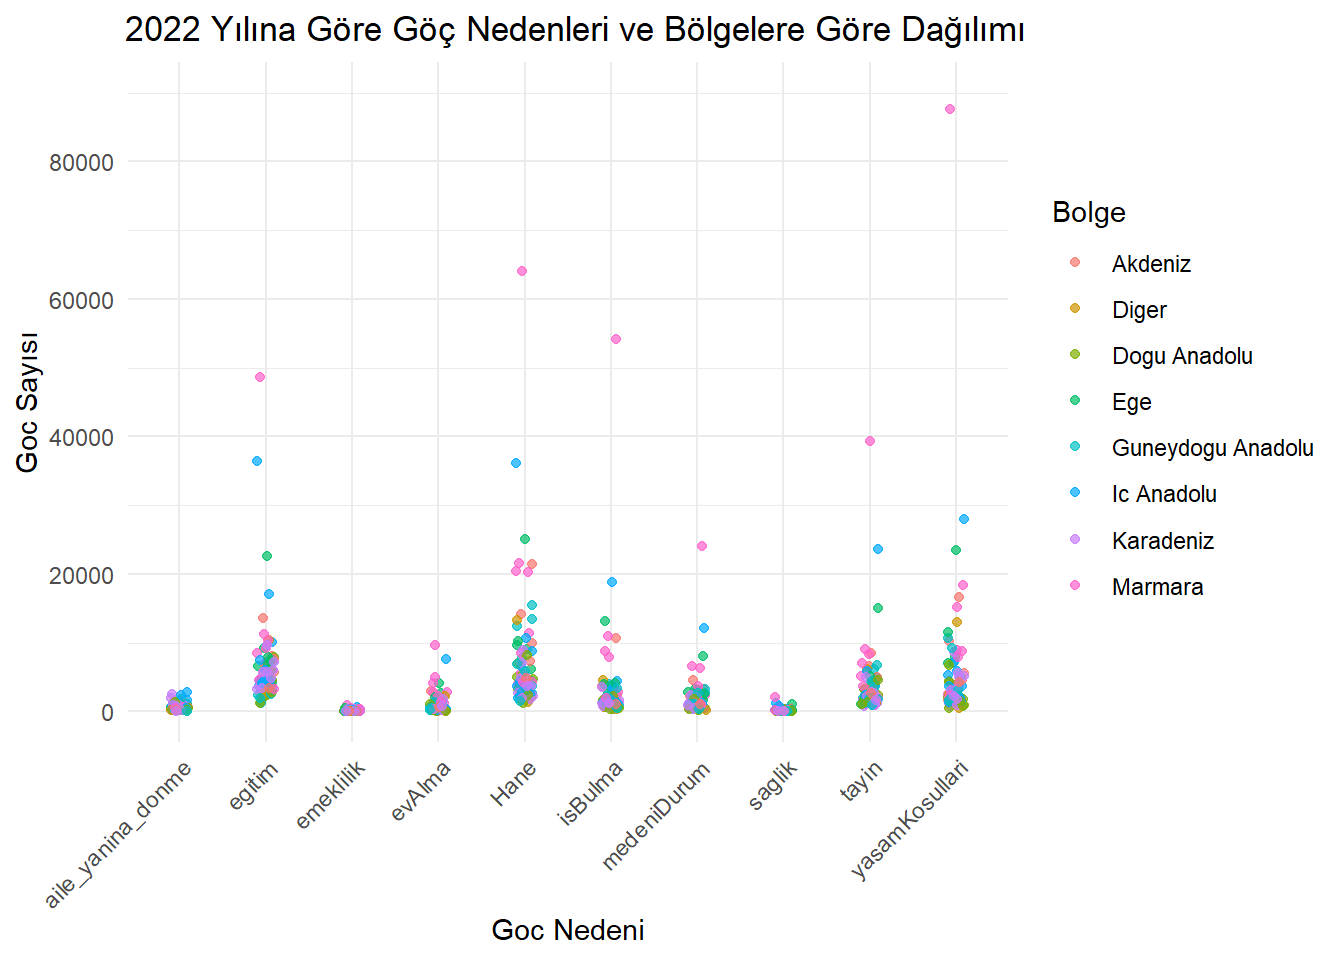
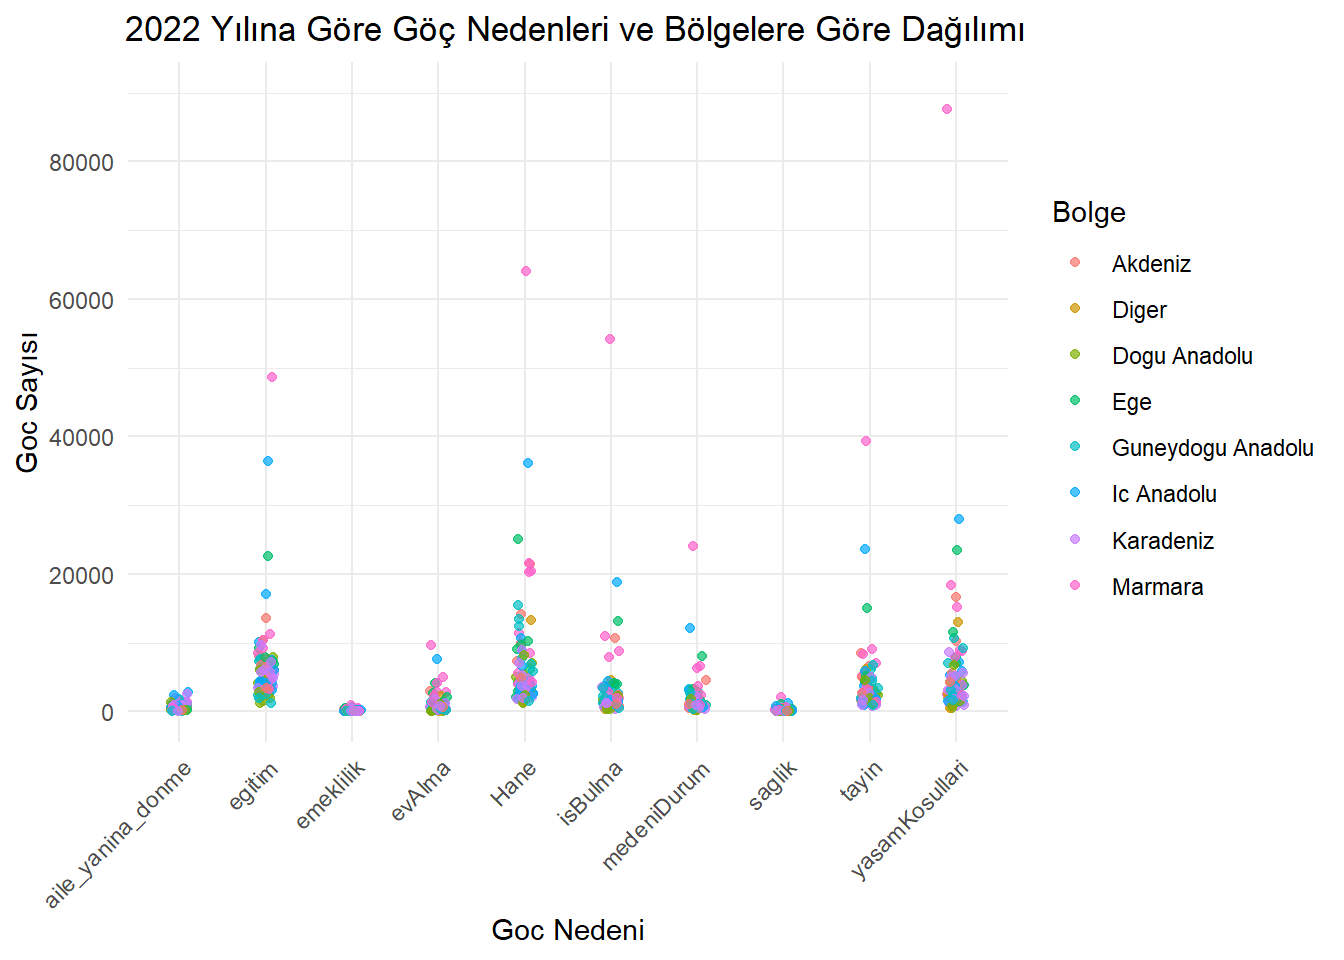
boxplot düzeltme
boxplot düzenlendi

diff --git a/docs/proje.html b/docs/proje.html
@@ -529,30 +529,29 @@ The following object is masked from 'package:dplyr':
 </div>
 </div>
 <div class="cell">
-<div class="sourceCode cell-code" id="cb40"><pre class="sourceCode r code-with-copy"><code class="sourceCode r"><span id="cb40-1"><a href="#cb40-1" aria-hidden="true" tabindex="-1"></a><span class="do">##boxplot data görsel</span></span>
-<span id="cb40-2"><a href="#cb40-2" aria-hidden="true" tabindex="-1"></a>new_tidy_data <span class="ot">&lt;-</span> new_tidy_data <span class="sc">%&gt;%</span></span>
-<span id="cb40-3"><a href="#cb40-3" aria-hidden="true" tabindex="-1"></a>  <span class="fu">mutate</span>(<span class="at">bolge =</span> <span class="fu">case_when</span>(</span>
-<span id="cb40-4"><a href="#cb40-4" aria-hidden="true" tabindex="-1"></a>    il <span class="sc">%in%</span> <span class="fu">c</span>(<span class="st">"Istanbul"</span>, <span class="st">"Bursa"</span>, <span class="st">"Kocaeli"</span>, <span class="st">"Tekirdag"</span>,<span class="st">"Balikesir"</span>,<span class="st">"Canakkale"</span>,<span class="st">"Bilecik"</span>,<span class="st">"Edirne"</span>,<span class="st">"Kirklareli"</span>,<span class="st">"Sakarya"</span>,<span class="st">"Yalova"</span>) <span class="sc">~</span> <span class="st">"Marmara"</span>,</span>
-<span id="cb40-5"><a href="#cb40-5" aria-hidden="true" tabindex="-1"></a>    il <span class="sc">%in%</span> <span class="fu">c</span>(<span class="st">"Izmir"</span>, <span class="st">"Aydin"</span>, <span class="st">"Manisa"</span>,<span class="st">"Afyonkarahisar"</span>,<span class="st">"Denizli"</span>,<span class="st">"Kutahya"</span>,<span class="st">"Manisa"</span>,<span class="st">"Mugla"</span>,<span class="st">"Usak"</span>) <span class="sc">~</span> <span class="st">"Ege"</span>,</span>
-<span id="cb40-6"><a href="#cb40-6" aria-hidden="true" tabindex="-1"></a>    il <span class="sc">%in%</span> <span class="fu">c</span>(<span class="st">"Ankara"</span>, <span class="st">"Konya"</span>, <span class="st">"Eskisehir"</span>,<span class="st">"Cankiri"</span>,<span class="st">"Corum"</span>,<span class="st">"Kayseri"</span>,<span class="st">"Kirsehir</span></span>
-<span id="cb40-7"><a href="#cb40-7" aria-hidden="true" tabindex="-1"></a><span class="st">"</span>,<span class="st">"Konya"</span>,<span class="st">"Nevsehir"</span>,<span class="st">"Nigde"</span>,<span class="st">"Sivas"</span>,<span class="st">"Yozgat"</span>,<span class="st">"Aksaray"</span>,<span class="st">"Karaman"</span>,<span class="st">"Kirikkale"</span>) <span class="sc">~</span> <span class="st">"Ic Anadolu"</span>,</span>
-<span id="cb40-8"><a href="#cb40-8" aria-hidden="true" tabindex="-1"></a>    il <span class="sc">%in%</span> <span class="fu">c</span>(<span class="st">"Artvin"</span>, <span class="st">"Giresun"</span>, <span class="st">"Ordu"</span>,<span class="st">"Rize"</span>,<span class="st">"Sinop"</span>,<span class="st">"Tokat"</span>,<span class="st">"Trabzon"</span>,<span class="st">"Zonguldak"</span>,<span class="st">"Amasya"</span>,<span class="st">"Bolu"</span>,<span class="st">"Gumushane"</span>,<span class="st">"Kastamonu"</span>,<span class="st">"Samsun"</span>,<span class="st">"Sinop"</span>,<span class="st">"Bayburt</span></span>
-<span id="cb40-9"><a href="#cb40-9" aria-hidden="true" tabindex="-1"></a><span class="st">"</span>,<span class="st">"Bartin"</span>,<span class="st">"Karabuk"</span>,<span class="st">"Duzce"</span>) <span class="sc">~</span> <span class="st">"Karadeniz"</span>,</span>
-<span id="cb40-10"><a href="#cb40-10" aria-hidden="true" tabindex="-1"></a>    il <span class="sc">%in%</span> <span class="fu">c</span>(<span class="st">"Adana"</span>, <span class="st">"Antalya"</span>,<span class="st">"Burdur"</span>,<span class="st">"Hatay"</span>,<span class="st">"Isparta"</span>,<span class="st">"Kahramanmaras"</span>,<span class="st">"Osmaniye"</span>) <span class="sc">~</span> <span class="st">"Akdeniz"</span>,</span>
-<span id="cb40-11"><a href="#cb40-11" aria-hidden="true" tabindex="-1"></a>    il <span class="sc">%in%</span> <span class="fu">c</span>(<span class="st">"Adiyaman"</span>,<span class="st">"Diyarbakir"</span>,<span class="st">"Gaziantep"</span>,<span class="st">"Mardin"</span>,<span class="st">"Siirt"</span>,<span class="st">"Sanliurfa"</span>,<span class="st">"Batman"</span>,<span class="st">"Sirnak"</span>,<span class="st">"Kilis"</span>) <span class="sc">~</span> <span class="st">"Guneydogu Anadolu"</span>,</span>
-<span id="cb40-12"><a href="#cb40-12" aria-hidden="true" tabindex="-1"></a>    il <span class="sc">%in%</span> <span class="fu">c</span>(<span class="st">"Agri"</span>,<span class="st">"Bingol"</span>,<span class="st">"Bitlis"</span>,<span class="st">"Elazig"</span>,<span class="st">"Erzincan"</span>,<span class="st">"Erzurum"</span>,<span class="st">"Hakkari"</span>,<span class="st">"Kars"</span>,<span class="st">"Malatya"</span>,<span class="st">"Muş"</span>,<span class="st">"Tunceli"</span>,<span class="st">"Van"</span>,<span class="st">"Ardahan"</span>,<span class="st">"Igdir"</span>) <span class="sc">~</span> <span class="st">"Dogu Anadolu"</span>,</span>
-<span id="cb40-13"><a href="#cb40-13" aria-hidden="true" tabindex="-1"></a>    <span class="cn">TRUE</span> <span class="sc">~</span> <span class="st">"Diger"</span> <span class="co"># Diğer bölgelere dahil olan iller için bir kategori belirleyin</span></span>
-<span id="cb40-14"><a href="#cb40-14" aria-hidden="true" tabindex="-1"></a>  ))</span>
-<span id="cb40-15"><a href="#cb40-15" aria-hidden="true" tabindex="-1"></a><span class="fu">ggplot</span>(new_tidy_data <span class="sc">%&gt;%</span> <span class="fu">filter</span>(yil <span class="sc">==</span> <span class="dv">2022</span>), <span class="fu">aes</span>(<span class="at">x =</span> gocNedeni, <span class="at">y =</span> gocSayisi, <span class="at">fill =</span> bolge)) <span class="sc">+</span></span>
-<span id="cb40-16"><a href="#cb40-16" aria-hidden="true" tabindex="-1"></a>  <span class="fu">geom_boxplot</span>() <span class="sc">+</span></span>
-<span id="cb40-17"><a href="#cb40-17" aria-hidden="true" tabindex="-1"></a>  <span class="fu">labs</span>(<span class="at">title =</span> <span class="st">"2022 Yılına Gore Goc Nedenleri ve Bolgelere Gore Dagılımı"</span>,</span>
-<span id="cb40-18"><a href="#cb40-18" aria-hidden="true" tabindex="-1"></a>       <span class="at">x =</span> <span class="st">"gocNedeni"</span>,</span>
-<span id="cb40-19"><a href="#cb40-19" aria-hidden="true" tabindex="-1"></a>       <span class="at">y =</span> <span class="st">"Goc Sayısı"</span>,</span>
-<span id="cb40-20"><a href="#cb40-20" aria-hidden="true" tabindex="-1"></a>       <span class="at">fill =</span> <span class="st">"Bolge"</span>) <span class="sc">+</span></span>
-<span id="cb40-21"><a href="#cb40-21" aria-hidden="true" tabindex="-1"></a>  <span class="fu">theme_minimal</span>() <span class="sc">+</span></span>
-<span id="cb40-22"><a href="#cb40-22" aria-hidden="true" tabindex="-1"></a>  <span class="fu">theme</span>(<span class="at">plot.title =</span> <span class="fu">element_text</span>(<span class="at">hjust =</span> <span class="fl">0.5</span>),</span>
-<span id="cb40-23"><a href="#cb40-23" aria-hidden="true" tabindex="-1"></a>        <span class="at">axis.text.x =</span> <span class="fu">element_text</span>(<span class="at">angle =</span> <span class="dv">45</span>, <span class="at">hjust =</span> <span class="dv">1</span>))<span class="sc">+</span></span>
-<span id="cb40-24"><a href="#cb40-24" aria-hidden="true" tabindex="-1"></a> <span class="fu">scale_y_continuous</span>(<span class="at">trans =</span> <span class="st">'log10'</span>, <span class="at">labels =</span> <span class="cf">function</span>(x) <span class="fu">format</span>(x, <span class="at">scientific =</span> <span class="cn">FALSE</span>))  <span class="co"># Y eksenini logaritmik ölçekleme yaparak ayarla</span></span></code><button title="Copy to Clipboard" class="code-copy-button"><i class="bi"></i></button></pre></div>
+<div class="sourceCode cell-code" id="cb40"><pre class="sourceCode r code-with-copy"><code class="sourceCode r"><span id="cb40-1"><a href="#cb40-1" aria-hidden="true" tabindex="-1"></a>new_tidy_data <span class="ot">&lt;-</span> new_tidy_data <span class="sc">%&gt;%</span></span>
+<span id="cb40-2"><a href="#cb40-2" aria-hidden="true" tabindex="-1"></a>  <span class="fu">mutate</span>(<span class="at">bolge =</span> <span class="fu">case_when</span>(</span>
+<span id="cb40-3"><a href="#cb40-3" aria-hidden="true" tabindex="-1"></a>    il <span class="sc">%in%</span> <span class="fu">c</span>(<span class="st">"Istanbul"</span>, <span class="st">"Bursa"</span>, <span class="st">"Kocaeli"</span>, <span class="st">"Tekirdag"</span>,<span class="st">"Balikesir"</span>,<span class="st">"Canakkale"</span>,<span class="st">"Bilecik"</span>,<span class="st">"Edirne"</span>,<span class="st">"Kirklareli"</span>,<span class="st">"Sakarya"</span>,<span class="st">"Yalova"</span>) <span class="sc">~</span> <span class="st">"Marmara"</span>,</span>
+<span id="cb40-4"><a href="#cb40-4" aria-hidden="true" tabindex="-1"></a>    il <span class="sc">%in%</span> <span class="fu">c</span>(<span class="st">"Izmir"</span>, <span class="st">"Aydin"</span>, <span class="st">"Manisa"</span>,<span class="st">"Afyonkarahisar"</span>,<span class="st">"Denizli"</span>,<span class="st">"Kutahya"</span>,<span class="st">"Manisa"</span>,<span class="st">"Mugla"</span>,<span class="st">"Usak"</span>) <span class="sc">~</span> <span class="st">"Ege"</span>,</span>
+<span id="cb40-5"><a href="#cb40-5" aria-hidden="true" tabindex="-1"></a>    il <span class="sc">%in%</span> <span class="fu">c</span>(<span class="st">"Ankara"</span>, <span class="st">"Konya"</span>, <span class="st">"Eskisehir"</span>,<span class="st">"Cankiri"</span>,<span class="st">"Corum"</span>,<span class="st">"Kayseri"</span>,<span class="st">"Kirsehir</span></span>
+<span id="cb40-6"><a href="#cb40-6" aria-hidden="true" tabindex="-1"></a><span class="st">"</span>,<span class="st">"Konya"</span>,<span class="st">"Nevsehir"</span>,<span class="st">"Nigde"</span>,<span class="st">"Sivas"</span>,<span class="st">"Yozgat"</span>,<span class="st">"Aksaray"</span>,<span class="st">"Karaman"</span>,<span class="st">"Kirikkale"</span>) <span class="sc">~</span> <span class="st">"Ic Anadolu"</span>,</span>
+<span id="cb40-7"><a href="#cb40-7" aria-hidden="true" tabindex="-1"></a>    il <span class="sc">%in%</span> <span class="fu">c</span>(<span class="st">"Artvin"</span>, <span class="st">"Giresun"</span>, <span class="st">"Ordu"</span>,<span class="st">"Rize"</span>,<span class="st">"Sinop"</span>,<span class="st">"Tokat"</span>,<span class="st">"Trabzon"</span>,<span class="st">"Zonguldak"</span>,<span class="st">"Amasya"</span>,<span class="st">"Bolu"</span>,<span class="st">"Gumushane"</span>,<span class="st">"Kastamonu"</span>,<span class="st">"Samsun"</span>,<span class="st">"Sinop"</span>,<span class="st">"Bayburt</span></span>
+<span id="cb40-8"><a href="#cb40-8" aria-hidden="true" tabindex="-1"></a><span class="st">"</span>,<span class="st">"Bartin"</span>,<span class="st">"Karabuk"</span>,<span class="st">"Duzce"</span>) <span class="sc">~</span> <span class="st">"Karadeniz"</span>,</span>
+<span id="cb40-9"><a href="#cb40-9" aria-hidden="true" tabindex="-1"></a>    il <span class="sc">%in%</span> <span class="fu">c</span>(<span class="st">"Adana"</span>, <span class="st">"Antalya"</span>,<span class="st">"Burdur"</span>,<span class="st">"Hatay"</span>,<span class="st">"Isparta"</span>,<span class="st">"Kahramanmaras"</span>,<span class="st">"Osmaniye"</span>) <span class="sc">~</span> <span class="st">"Akdeniz"</span>,</span>
+<span id="cb40-10"><a href="#cb40-10" aria-hidden="true" tabindex="-1"></a>    il <span class="sc">%in%</span> <span class="fu">c</span>(<span class="st">"Adiyaman"</span>,<span class="st">"Diyarbakir"</span>,<span class="st">"Gaziantep"</span>,<span class="st">"Mardin"</span>,<span class="st">"Siirt"</span>,<span class="st">"Sanliurfa"</span>,<span class="st">"Batman"</span>,<span class="st">"Sirnak"</span>,<span class="st">"Kilis"</span>) <span class="sc">~</span> <span class="st">"Guneydogu Anadolu"</span>,</span>
+<span id="cb40-11"><a href="#cb40-11" aria-hidden="true" tabindex="-1"></a>    il <span class="sc">%in%</span> <span class="fu">c</span>(<span class="st">"Agri"</span>,<span class="st">"Bingol"</span>,<span class="st">"Bitlis"</span>,<span class="st">"Elazig"</span>,<span class="st">"Erzincan"</span>,<span class="st">"Erzurum"</span>,<span class="st">"Hakkari"</span>,<span class="st">"Kars"</span>,<span class="st">"Malatya"</span>,<span class="st">"Muş"</span>,<span class="st">"Tunceli"</span>,<span class="st">"Van"</span>,<span class="st">"Ardahan"</span>,<span class="st">"Igdir"</span>) <span class="sc">~</span> <span class="st">"Dogu Anadolu"</span>,</span>
+<span id="cb40-12"><a href="#cb40-12" aria-hidden="true" tabindex="-1"></a>   <span class="co">#TRUE ~ "Diger" # Diğer bölgelere dahil olan iller için bir kategori belirleyin</span></span>
+<span id="cb40-13"><a href="#cb40-13" aria-hidden="true" tabindex="-1"></a>  ))</span>
+<span id="cb40-14"><a href="#cb40-14" aria-hidden="true" tabindex="-1"></a><span class="fu">ggplot</span>(new_tidy_data <span class="sc">%&gt;%</span> <span class="fu">filter</span>(yil <span class="sc">==</span> <span class="dv">2022</span> , bolge <span class="sc">!=</span> <span class="st">"Diger"</span>), <span class="fu">aes</span>(<span class="at">x =</span> gocNedeni, <span class="at">y =</span> gocSayisi, <span class="at">fill =</span> bolge)) <span class="sc">+</span></span>
+<span id="cb40-15"><a href="#cb40-15" aria-hidden="true" tabindex="-1"></a>  <span class="fu">geom_boxplot</span>() <span class="sc">+</span></span>
+<span id="cb40-16"><a href="#cb40-16" aria-hidden="true" tabindex="-1"></a>  <span class="fu">labs</span>(<span class="at">title =</span> <span class="st">"2022 Yılına Gore Goc Nedenleri ve Bolgelere Gore Dağılımı"</span>,</span>
+<span id="cb40-17"><a href="#cb40-17" aria-hidden="true" tabindex="-1"></a>       <span class="at">x =</span> <span class="st">"gocNedeni"</span>,</span>
+<span id="cb40-18"><a href="#cb40-18" aria-hidden="true" tabindex="-1"></a>       <span class="at">y =</span> <span class="st">"Goc Sayısı"</span>,</span>
+<span id="cb40-19"><a href="#cb40-19" aria-hidden="true" tabindex="-1"></a>       <span class="at">fill =</span> <span class="st">"Bolge"</span>) <span class="sc">+</span></span>
+<span id="cb40-20"><a href="#cb40-20" aria-hidden="true" tabindex="-1"></a>  <span class="fu">theme_minimal</span>() <span class="sc">+</span></span>
+<span id="cb40-21"><a href="#cb40-21" aria-hidden="true" tabindex="-1"></a>  <span class="fu">theme</span>(<span class="at">plot.title =</span> <span class="fu">element_text</span>(<span class="at">hjust =</span> <span class="fl">0.5</span>),</span>
+<span id="cb40-22"><a href="#cb40-22" aria-hidden="true" tabindex="-1"></a>        <span class="at">axis.text.x =</span> <span class="fu">element_text</span>(<span class="at">angle =</span> <span class="dv">45</span>, <span class="at">hjust =</span> <span class="dv">1</span>))<span class="sc">+</span></span>
+<span id="cb40-23"><a href="#cb40-23" aria-hidden="true" tabindex="-1"></a> <span class="fu">scale_y_continuous</span>(<span class="at">trans =</span> <span class="st">'log10'</span>, <span class="at">labels =</span> <span class="cf">function</span>(x) <span class="fu">format</span>(x, <span class="at">scientific =</span> <span class="cn">FALSE</span>))  <span class="co"># Y eksenini logaritmik ölçekleme yaparak ayarla</span></span></code><button title="Copy to Clipboard" class="code-copy-button"><i class="bi"></i></button></pre></div>
 <div class="cell-output-display">
 <p><img src="proje_files/figure-html/unnamed-chunk-19-1.png" class="img-fluid" width="672"></p>
 </div>
